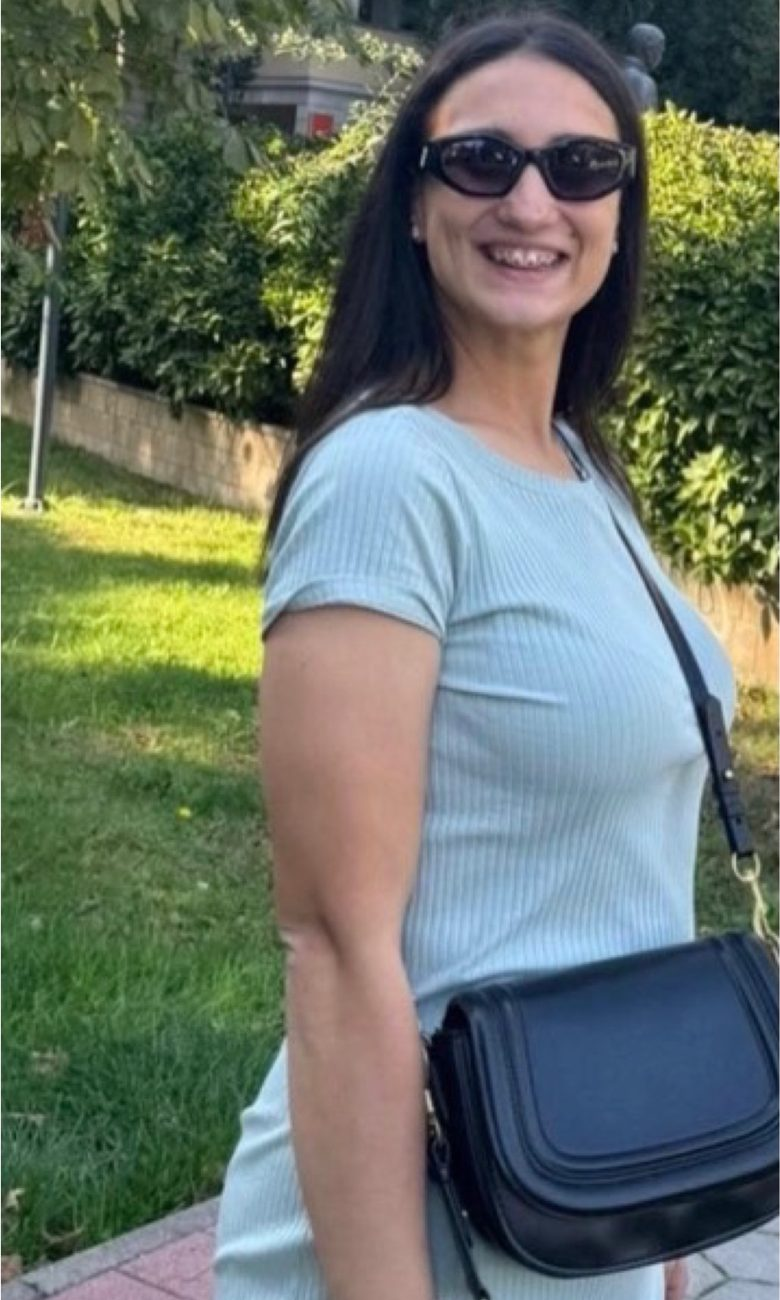
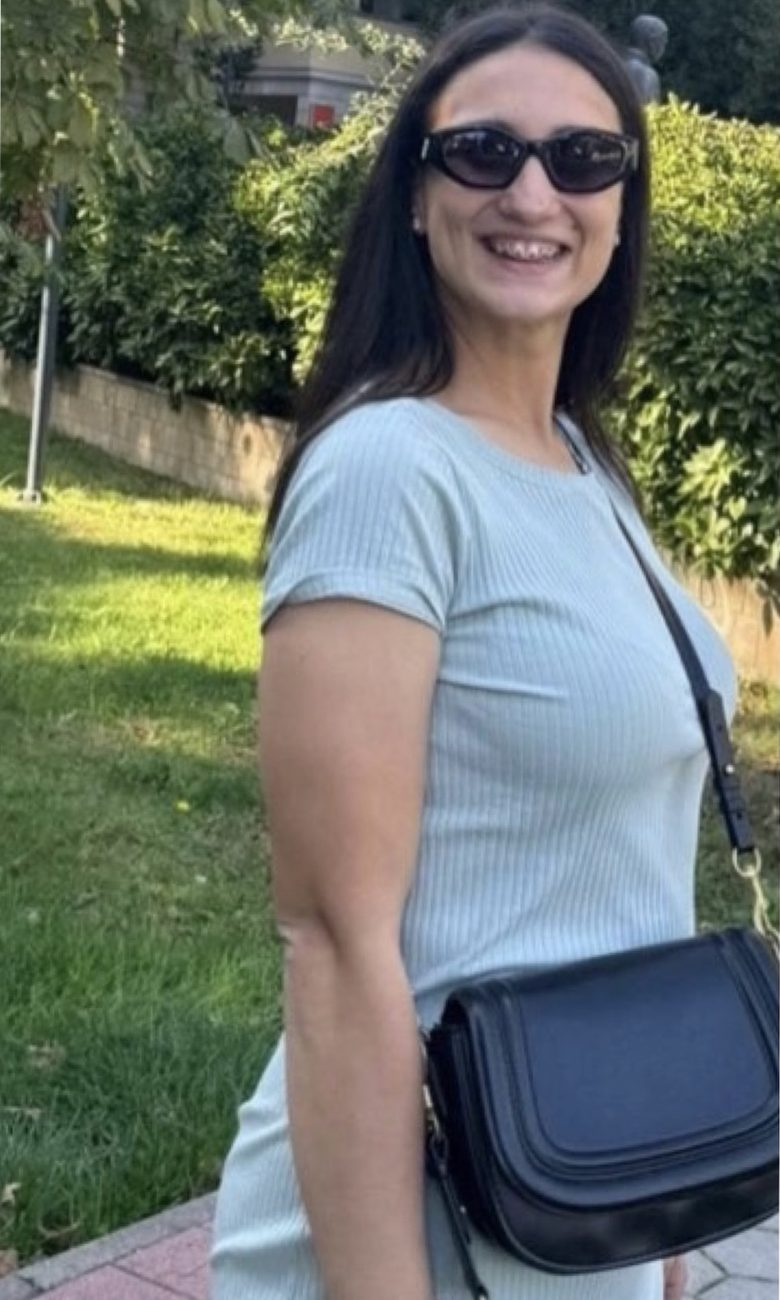
Transformacije: rezultat uz trajanje (−8 kg, +10 kg)
- Novo polje result u TRANSFORMATIONS, prikazuje se plavo pored trajanja
  u sva tri načina prikaza.
- Devojka: nove slike iz poslatog kolaža, 4 mjeseca, −8 kg.
- Momak: 3 mjeseca, +10 kg.

Claude-Session: https://claude.ai/code/session_01R7PVgEtFGyykzGBCnXd4Qp

diff --git a/script.js b/script.js
@@ -47,16 +47,20 @@ const t = entry => entry[currentLang] || entry.sr;
 // ===== Rendering =====
 // One transformation, drawn the way it is asked for: a slider, a pair side
 // by side, or a card in the moving strip.
-// The time it took leads, the way ShredFast shows it; name and words follow.
-function periodHtml(item) {
-  return item.period ? `<span class="tf-period">${ICONS.clock}${esc(t(item.period))}</span>` : '';
+// The time it took and what changed lead, the way ShredFast shows them;
+// name and words follow.
+function statsHtml(item) {
+  if (!item.period && !item.result) return '';
+  return `<span class="tf-stats">${
+    item.period ? `<span class="tf-period">${ICONS.clock}${esc(t(item.period))}</span>` : ''}${
+    item.result ? `<span class="tf-result">${esc(t(item.result))}</span>` : ''}</span>`;
 }
 
 function transformationCaption(item, cls) {
-  if (!item.quote && !item.name && !item.period) return '';
+  if (!item.quote && !item.name && !item.period && !item.result) return '';
   return `
       <figcaption class="${cls}">
-        ${periodHtml(item)}
+        ${statsHtml(item)}
         ${item.quote ? `<p class="transformation-quote">${esc(t(item.quote))}</p>` : ''}
         ${item.name ? `<strong>${esc(t(item.name))}</strong>` : ''}
         ${item.detail ? `<span>${esc(t(item.detail))}</span>` : ''}
@@ -99,8 +103,8 @@ function reelCardHtml(item, copy) {
   return `
     <figure class="reel-card"${copy ? ' aria-hidden="true"' : ''}>
       <div class="transformation-pair">${shotHtml(item.before, MSG.before, false, copy)}${shotHtml(item.after, MSG.after, true, copy)}
-      </div>${item.name || item.period ? `
-      <figcaption class="reel-caption">${periodHtml(item)}${item.name ? `<span class="reel-name">${esc(t(item.name))}</span>` : ''}</figcaption>` : ''}
+      </div>${item.name || item.period || item.result ? `
+      <figcaption class="reel-caption">${statsHtml(item)}${item.name ? `<span class="reel-name">${esc(t(item.name))}</span>` : ''}</figcaption>` : ''}
     </figure>`;
 }
 

diff --git a/styles.css b/styles.css
@@ -1174,13 +1174,23 @@ button {
 
 .transformation-caption span { font-size: 0.92rem; color: var(--gold); }
 
-/* How long it took: the first thing under the photos. */
+/* How long it took and what changed: the first thing under the photos,
+   side by side, the kilos in blue so they are read first. */
+.transformation-caption .tf-stats,
+.tf-stats {
+  display: inline-flex;
+  flex-wrap: wrap;
+  align-items: center;
+  justify-content: center;
+  gap: 6px 18px;
+  margin-bottom: 6px;
+}
+
 .transformation-caption .tf-period,
 .tf-period {
   display: inline-flex;
   align-items: center;
   gap: 8px;
-  margin-bottom: 6px;
   font-family: var(--font-display);
   font-size: 1.25rem;
   font-weight: 300;
@@ -1190,7 +1200,21 @@ button {
 }
 
 .tf-period svg { width: 18px; height: 18px; color: var(--blue-bright); stroke-width: 1.6; }
-.transformation-caption .tf-period + strong { margin-top: 4px; }
+
+.transformation-caption .tf-result,
+.tf-result {
+  padding-left: 18px;
+  border-left: 1px solid var(--line);
+  font-family: var(--font-display);
+  font-size: 1.5rem;
+  font-weight: 400;
+  letter-spacing: 2px;
+  line-height: 1;
+  color: var(--blue-bright);
+}
+
+.tf-result:first-child { padding-left: 0; border-left: 0; }
+.transformation-caption .tf-stats + strong { margin-top: 4px; }
 
 /* ===== INSTAGRAM =====
    The handle runs huge and faint behind a card that is one tap to the

diff --git a/data.js b/data.js
@@ -209,6 +209,7 @@ const TRANSFORMATIONS_VIEW = 'izbor';
 
 // Ispod slika, ako postoje (nisu obavezni):
 //   period: za koliko je postignuto, npr. { sr: '3 mjeseca', en: '3 months' }
+//   result: šta je postignuto, npr. { sr: '−8 kg', en: '−8 kg' }
 //   quote:  utisak klijenta, npr. { sr: 'Za 4 mjeseca...', en: 'In 4 months...' }
 //   name:   ime, npr. { sr: 'Ana', en: 'Ana' }
 //   detail: npr. { sr: 'Trener', en: 'Coach' }
@@ -231,12 +232,16 @@ const TRANSFORMATIONS = [
   {
     before: 'images/transformacije/transformacija-3-prije.jpg',
     after: 'images/transformacije/transformacija-3-poslije.jpg',
-    layout: 'pair'
+    layout: 'pair',
+    period: { sr: '4 mjeseca', en: '4 months' },
+    result: { sr: '−8 kg', en: '−8 kg' }
   },
   {
     before: 'images/transformacije/transformacija-4-prije.jpg',
     after: 'images/transformacije/transformacija-4-poslije.jpg',
-    layout: 'pair'
+    layout: 'pair',
+    period: { sr: '3 mjeseca', en: '3 months' },
+    result: { sr: '+10 kg', en: '+10 kg' }
   },
   {
     before: 'images/transformacije/transformacija-5-prije.jpg',

diff --git a/tests/navigation.spec.js b/tests/navigation.spec.js
@@ -130,11 +130,11 @@ async function run() {
     check('every transformation shows both photos, the way data.js asks',
       shown.join(',') === plan.grids.join(','), shown.join(','));
     const periods = await page.evaluate(() => {
-      const want = TRANSFORMATIONS.filter(t => t.period).map(t => t.period.sr);
+      const want = TRANSFORMATIONS.flatMap(t => [t.period, t.result]).filter(Boolean).map(v => v.sr);
       const text = document.getElementById('transformationsGrid').textContent;
       return want.filter(p => !text.includes(p));
     });
-    check('how long each one took is shown under it', periods.length === 0, 'missing: ' + periods.join(', '));
+    check('how long each one took, and what changed, is shown under it', periods.length === 0, 'missing: ' + periods.join(', '));
     if (plan.reel) {
       const cards = await page.$$eval('#transformationsGrid .reel-card', els => els.map(c => c.querySelectorAll('img').length));
       check('the strip carries every transformation (twice, to run on)',

diff --git a/index.html b/index.html
@@ -37,7 +37,7 @@
     <link rel="stylesheet"
       href="https://fonts.googleapis.com/css2?family=Oswald:wght@300;400&family=Lato:wght@400;700&display=swap">
   </noscript>
-  <link rel="stylesheet" href="styles.css?v=539226ea">
+  <link rel="stylesheet" href="styles.css?v=c49183c8">
 
   <script>
     // Sopstveni događaji i tagovi za analitiku (Microsoft Clarity). Sve kroz
@@ -429,8 +429,8 @@
   }
   </script>
 
-  <script src="data.js?v=a3b3e2b9"></script>
+  <script src="data.js?v=df285701"></script>
   <script src="components.js?v=08bc7293"></script>
-  <script src="script.js?v=c483cd7b"></script>
+  <script src="script.js?v=d5cd562b"></script>
 </body>
 </html>

diff --git a/nivo.html b/nivo.html
@@ -29,7 +29,7 @@
     <link rel="stylesheet"
       href="https://fonts.googleapis.com/css2?family=Oswald:wght@300;400&family=Lato:wght@400;700&display=swap">
   </noscript>
-  <link rel="stylesheet" href="styles.css?v=539226ea">
+  <link rel="stylesheet" href="styles.css?v=c49183c8">
   <link rel="stylesheet" href="detail.css?v=83bd7435">
 
   <script>
@@ -194,7 +194,7 @@
     </a>
   </aside>
 
-  <script src="data.js?v=a3b3e2b9"></script>
+  <script src="data.js?v=df285701"></script>
   <script src="components.js?v=08bc7293"></script>
   <script src="detail.js?v=739c609d"></script>
   <script src="nivo.js?v=7f1d2b61"></script>

diff --git a/README.md b/README.md
@@ -57,8 +57,8 @@ Zajedničko: `data.js` (sav sadržaj), `components.js` (kartice i kontakt),
   odluči).
 - Transformacije: slike pre/posle (uspravne, 3:5) u `images/transformacije/`,
   putanje u `TRANSFORMATIONS` u `data.js` (samo uz dozvolu klijenata). Utisak
-  klijenta (`quote`), ime i trajanje se dopisuju uz istu transformaciju i
-  pojavljuju se ispod slike.
+  klijenta (`quote`), ime, trajanje (`period`) i rezultat (`result`, npr.
+  „−8 kg") se dopisuju uz istu transformaciju i pojavljuju se ispod slike.
 
 ## Domen
 
